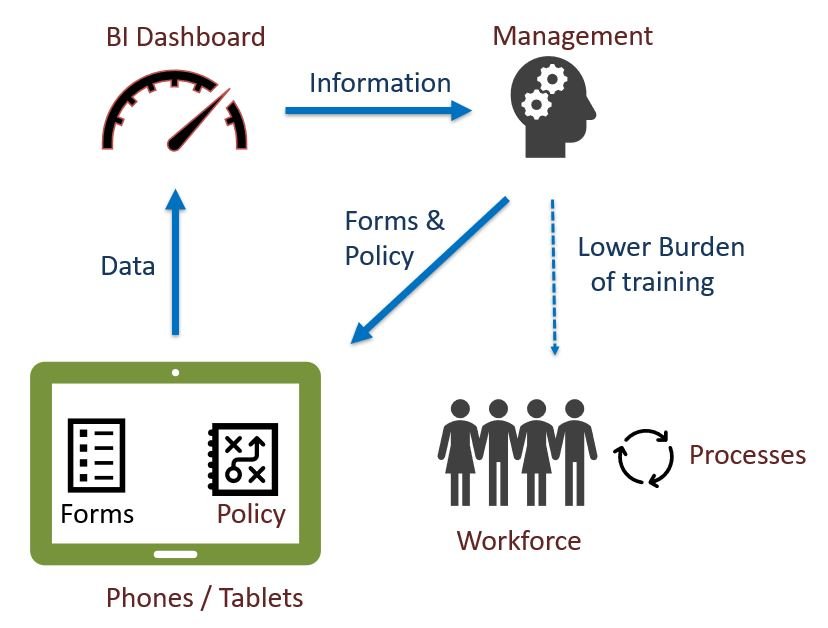
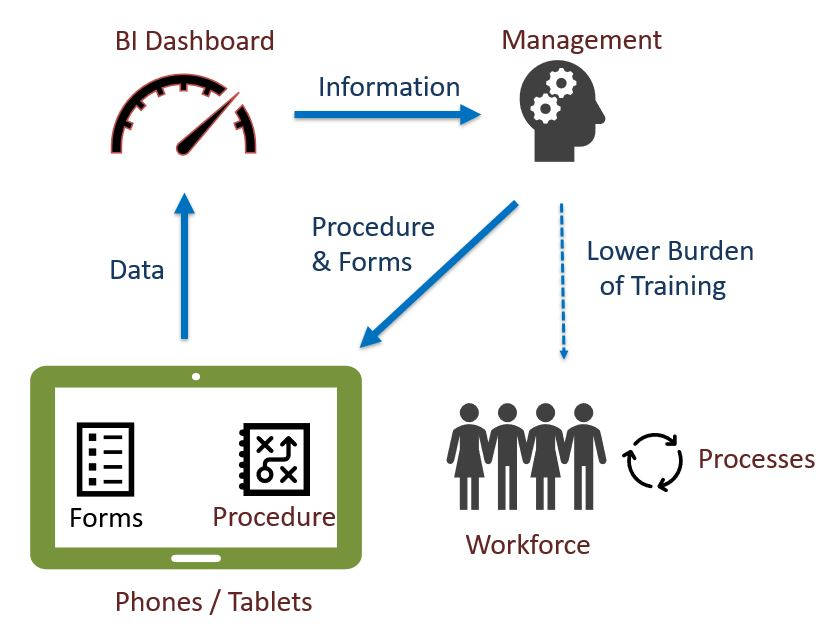
mwa

diff --git a/mwa-charts.rst b/mwa-charts.rst
@@ -1,0 +1,102 @@
+.. _charts:
+
+Charts
+======
+
+.. contents::
+ :local:
+ 
+An excellent way to provide feedback to a user is by showing charts to present data back to them.  
+
+
+.. note::
+
+  `Example Survey <https://docs.google.com/spreadsheets/d/19jnl8d86p964IDbEIH3z2pQPoBGep5MJKp_nxA-YhWA/edit#gid=852740487>`_
+
+Adding a Charts
+---------------
+
+*  Set the question type to: **chart**
+*  Put the data in the **calculation** column.  
+
+Optionally specify the following parameters::
+
+  chart_type=horizontal_bar.  Will show the data as a horizontal bar chart. The default is a line chart
+  stacked=yes.  Use with horizontal_bar charts to stack the bars.
+
+Chart Data
+----------
+The chart data is specified in the calculation column.  Usually you would use yext functions such as the join() function to combine 
+answers from questions, or values sources from a CSv file into the correct format.
+
+The rules for constructing data and labels are as follows (Refer to the examples as to how this actually works):
+
+*  Data points are seperated by a single colon  (\:)
+*  X Axis Labels are separated by a single colon  (\:)
+*  Data is separated from labels using double equals  (==)   Note the labels a placed first.
+*  Multiple datasets are seprated using double colon  (\:\:)
+*  Labels for data sets are separated from X Axis labels using double colon  (\:\:)  Note the X Axis Labels come before data set labels.
+
+Optionally the X axis numbers can be added to the data.  This can be useful when showing multiple datasets if one of the data sets has missing
+data points.  Separate the X Axis number from the value using hash (#).  The X Axis number comes first. Start the X axis numbers from 0.
+
+In this example the second data set does not have a value for the 2nd point in the series (X axis number 1)::
+
+  0#10:1#20:2#30:3#40::0#5:2#7:3#8
+
+
+
+Example 1 - Simple Line Chart
+-----------------------------
+
+Calculation::
+
+  join(':', '1','2','3', '2')
+  
+.. figure::  _images/chart1.png
+   :align:   center
+   :width: 	 300px
+   :alt:     Simple Line Chart
+
+   Simple Line Chart
+
+Example 2 - Line Chart with X Axis Labels
+------------------------------------------------
+
+In this example the data values are first combined with a colon separator.  Then the X Axis labels are combined again using a colon separator. 
+Finally the data is combined with the labels using the double equals separator. 
+
+Calculation::
+
+  data:                 join(':', '26','12','34', '45')
+  labels:               join(':', 'A', 'B', 'C', 'D')
+  chart calculation:    join('==', ${labels}, ${data})
+  
+.. figure::  _images/chart2.png
+   :align:   center
+   :width: 	 300px
+   :alt:     Line Chart with X Axis Labels
+
+   Line Chart with X Axis Labels
+    
+Example 3 - Two Lines with X Axis Labels
+----------------------------------------
+
+To show two lines that means showing two data sets.
+
+Calculation::
+
+  dataset_1:            join(':', '26','12','34', '45')
+  dataset_2:            join(':', '48','36', '48')
+  combined_data:        join('::', ${dataset_1}, ${dataset_2})
+  labels:               join(':', 'A', 'B', 'C', 'D')
+  chart calculation:    join('==', ${labels}, ${combined_data})
+
+.. figure::  _images/chart3.png
+   :align:   center
+   :width: 	 300px
+   :alt:     Two Lines with X Axis Labels
+
+   Two Lines with X Axis Labels
+
+

diff --git a/mwa-overview.rst b/mwa-overview.rst
@@ -1,0 +1,30 @@
+Mobile Workforce Assistance Overview
+====================================
+
+.. contents::
+ :local:
+ 
+In **Mobile Workforce Assistance (MWA)** type applications data is collected using forms in the same manner as MDC is used for M&E 
+however the data is then used immediately to provide context relevant advice to the person being interviewed or the mobile device user.
+
+.. figure::  _images/guidance1.jpg
+   :align:   center
+   :alt:     Mobile Workforce Assistance
+
+   Mobile WOrkforce Assistance
+
+With MWA we can put organisational procedures and training directly into the mobile devices that the field staff use to complete their
+work.  
+
+This delivers very significant benefits beyond what is possible with conventional MDC:
+
+#.  A consistent high quality implementation of organisational procedures by staff guided by their phone
+#.  Reduced need for basic training.  The forms on the phones can train the staff as they deliver the service as well as
+    guide them in how to deliver that service.  This allows
+    an organisation to focus its training on more advanced human development.
+#.  A dramatic shortening of the time betweeen identifying the need for a program and having the required capabilities to roll 
+    that program out.
+	
+In other words, use of **MWA** can deliver the sort of productivity improvements to service delivery that organisations 
+currently achieve in M&E by using mobile devices.
+

diff --git a/cm-overview.rst b/cm-overview.rst
@@ -2,7 +2,7 @@ Overview
 ========
 
 A case management system is concerned with managing individual records of data that correspond to something or someone in the 
-real world. Surveys are used to collect data and guidance can be used to provide services effectively while maintaining a focus
+real world. Surveys are used to collect data and guidance can be added to the surveys in order to provide services effectively while maintaining a focus
 on individuals.
 
 .. figure::  _images/cm1.jpg
@@ -11,7 +11,7 @@ on individuals.
 
    Case Management
    
-With case management we add process to the guidance and forms already in the users phones.  This enables the delivery of much 
+With case management we add process to the procedures and forms already in the users phones.  This enables the delivery of much 
 more sophisticated services.  
 
 An added benefit is that these case management systems generate a large amount of real time data data on what is happening

diff --git a/ref-question-types.rst b/ref-question-types.rst
@@ -33,7 +33,7 @@ Chart
 
 Type:  chart
 
-Shows a chart in the survey. Settings for the graph are specified in the question parameters.
+Shows a chart in the survey. Settings for the graph are specified in the question parameters. More details are available in :ref:`charts`
 
 Not available in Webforms.
  
@@ -43,4 +43,7 @@ Child Form / Parent Form
 Type:  child_form / parent_form
 
 Launches another survey from within the current survey. The difference between these is in how the data from the two surveys
-are linked in the results database.  If you don't care about this linkage then either will do.
+are linked in the results database.  If you don't care about linking the data between the two surveys then either type will do.
+Detailed information on using these question types is available in :ref:`launch-survey`.
+
+Not available in Webforms.

diff --git a/references.rst b/references.rst
@@ -4,13 +4,13 @@ Survey References
 .. toctree::
   :maxdepth: 1
   
-  ref_question_names.rst
-  ref_question_types.rst
-  ref_meta_items.rst
-  ref_expressions.rst
-  ref_appearances.rst
-  ref_parameters.rst
-  ref_settings.rst
+  ref-question-names.rst
+  ref-question-types.rst
+  ref-meta-items.rst
+  ref-expressions.rst
+  ref-appearances.rst
+  ref-parameters.rst
+  ref-settings.rst
   ref-styles.rst
 
 

diff --git a/launch-survey-from-survey.rst b/launch-survey-from-survey.rst
@@ -1,6 +1,11 @@
+.. _launch-survey:
+
 Launch a Survey from inside a Survey
 ====================================
 
+.. contents::
+ :local:
+ 
 While completing a survey you may find that another survey also needs to be completed.  You can launch this second survey from 
 within the survey you are currently filling in, complete it, and then be
 returned automatically to your location in the first survey.  

diff --git a/mwa.rst b/mwa.rst
@@ -1,0 +1,9 @@
+Mobile Workforce Assistance
+===========================
+
+.. toctree::
+  :maxdepth: 1
+
+  mwa-overview.rst
+  mwa-formatting.rst
+  mwa-charts.rst

diff --git a/applications.rst b/applications.rst
@@ -7,5 +7,5 @@ Applications
   :maxdepth: 1
   
   me.rst
-  guidance.rst
+  mwa.rst
   case-management.rst
